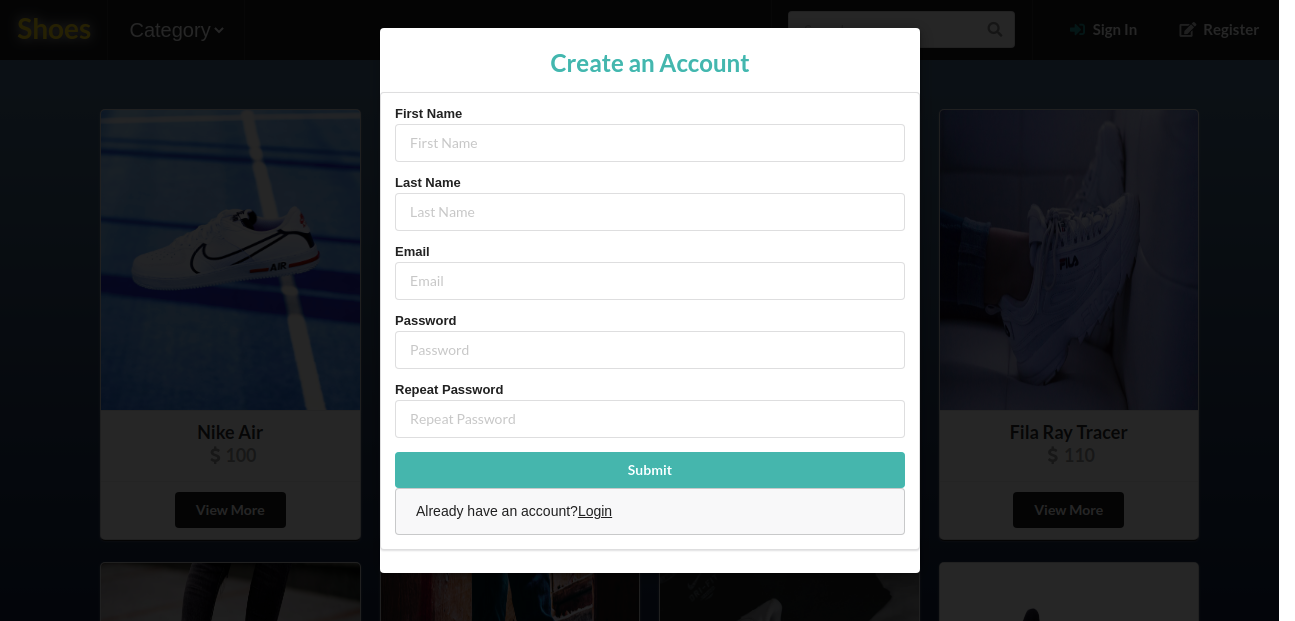
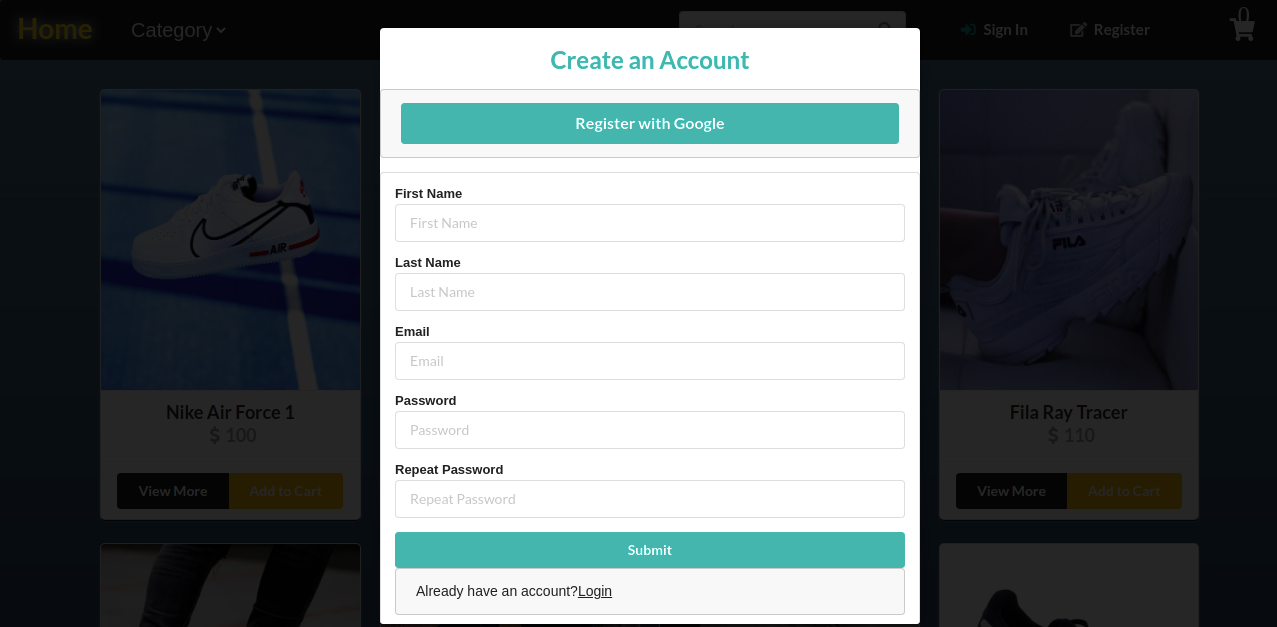
updated README.md

diff --git a/README.md b/README.md
@@ -4,7 +4,7 @@
 
 ## Table of contents
 
-- [General info](#general-info)
+- [Title](#Title)
 - [Screenshots](#screenshots)
 - [Technologies](#technologies)
 - [Features](#features)
@@ -12,7 +12,7 @@
 - [Inspiration](#inspiration)
 - [Contact](#contact)
 
-## General info
+## Title
 
 Shoes E-Commerce Store.
 
@@ -37,6 +37,8 @@ Shoes E-Commerce Store.
 - Express.js
 - JWT
 - MongoDB
+- Mongoose
+- Docker
 
 ## Features
 
@@ -47,13 +49,12 @@ READY:
 - Search filter
 - Select by category
 - View single Product
-- Added Redux
 - Add Product to Cart
 - Remove Product
 - Login with validation
 - Register with validation
+- Google Login
 - Logout
-- save and show current user
 - Save in Local Storage
 - Admin
 - Create new Product
@@ -62,13 +63,9 @@ READY:
 - Pagination
 - Deployed in Heroku
 
-
-
 To-do list:
 
 - Update user
-- Add google login
-- Create Docker Image
 
 ## Status
 
